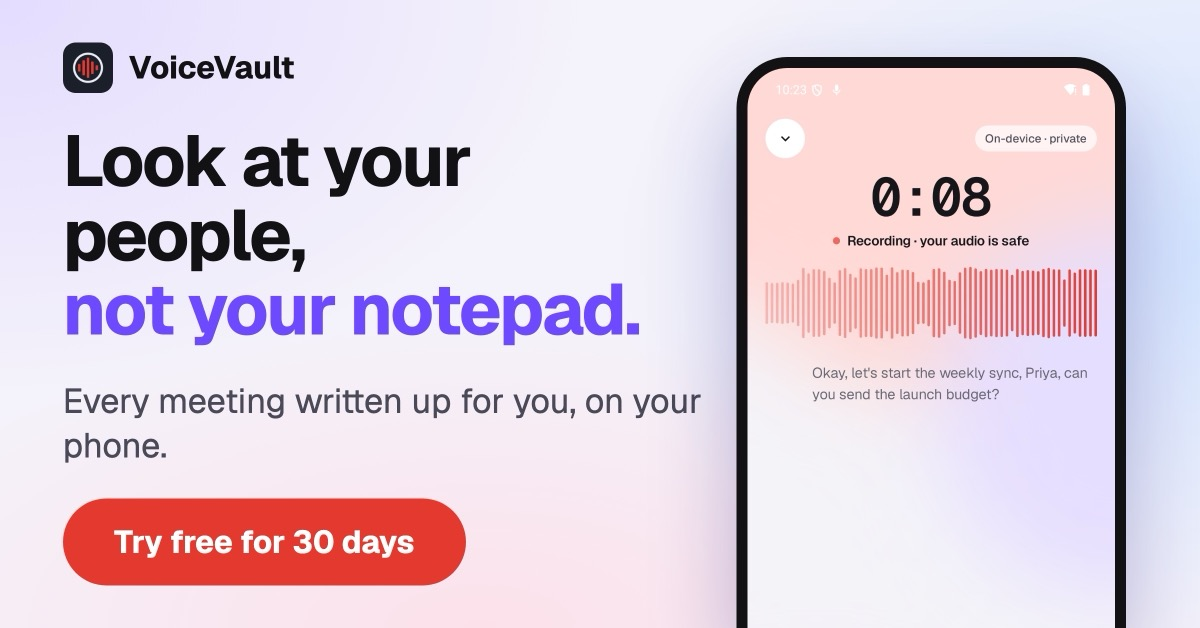
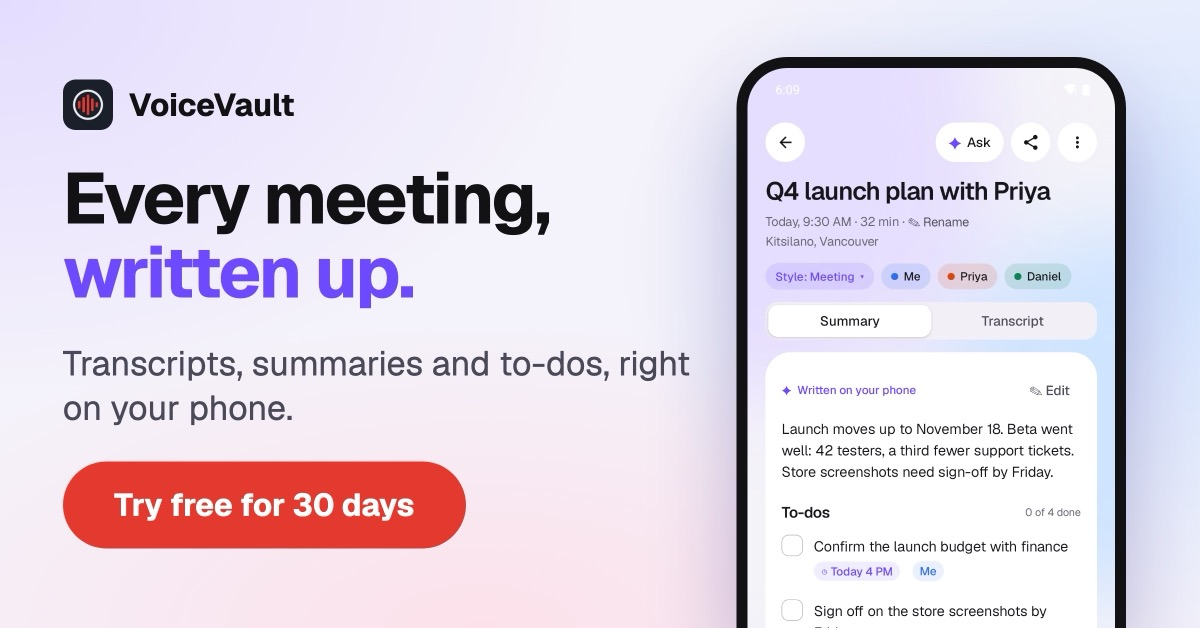
VoiceVault page: same message as the Play listing and ads

diff --git a/voicevault/index.html b/voicevault/index.html
@@ -3,14 +3,14 @@
 <head>
 <meta charset="UTF-8">
 <meta name="viewport" content="width=device-width, initial-scale=1.0">
-<title>VoiceVault: AI meeting notes that stay on your phone</title>
-<meta name="description" content="Record any meeting and walk out with the summary, the to-dos and who said what. Written on your Android phone, never uploaded. 30 days free, then pay once.">
+<title>VoiceVault: every meeting, written up, right on your phone</title>
+<meta name="description" content="Meeting notes, summaries and to-dos, made on your Android phone. No account, no servers, no subscription. 30 days free, then pay once.">
 <link rel="canonical" href="https://azai.ca/voicevault/">
 <link rel="icon" type="image/png" href="icon.png">
 <meta property="og:type" content="website">
 <meta property="og:url" content="https://azai.ca/voicevault/">
-<meta property="og:title" content="VoiceVault: look at your people, not your notepad">
-<meta property="og:description" content="AI meeting notes written on your phone. Nothing is uploaded. 30 days free, then pay once.">
+<meta property="og:title" content="VoiceVault: every meeting, written up">
+<meta property="og:description" content="Meeting notes, summaries and to-dos, made on your phone. No subscription.">
 <meta property="og:image" content="https://azai.ca/voicevault/og.jpg">
 <meta name="twitter:card" content="summary_large_image">
 <style>
@@ -124,9 +124,9 @@
 
 <header class="hero">
   <div>
-    <div class="eyebrow">For people who run the meeting</div>
-    <h1>Look at your people, <em>not your notepad.</em></h1>
-    <p class="lede">Press Record and run the meeting. VoiceVault writes the summary, the to-dos and who said what, right on your phone. Nothing is uploaded.</p>
+    <div class="eyebrow">VoiceVault</div>
+    <h1>Every meeting, <em>written up.</em></h1>
+    <p class="lede">Tap Record. VoiceVault writes the transcript, names who said what, and turns it into a short summary and a to-do list. All of it happens on your phone: no account, no VoiceVault servers, and it even works in airplane mode.</p>
     <a class="play" href="https://play.google.com/store/apps/details?id=com.azai.voicevault&amp;referrer=utm_source%3Dazai.ca%26utm_medium%3Dlanding"><img src="icon.png" alt=""><span><small>Get it on</small>Google Play</span></a>
     <p class="note">Android · 30 days free · then pay once</p>
   </div>
@@ -134,7 +134,7 @@
 </header>
 
 <div class="strip">
-  <div><b>Nothing leaves your phone</b>Recorded, transcribed and summarized on the device. Works in airplane mode.</div>
+  <div><b>Right on your phone</b>Transcripts, summaries and to-dos, made on the device. Works in airplane mode.</div>
   <div><b>No account, no servers</b>We never receive your recordings, so we can't read, share or sell them.</div>
   <div><b>Pay once</b>No subscription, no minute limits, no AI credits.</div>
 </div>
@@ -142,8 +142,8 @@
 <section class="row">
   <div class="text">
     <div class="eyebrow">The moment you stop</div>
-    <h2>Walk out knowing <em>who owes what.</em></h2>
-    <p class="lede">The decisions in a few lines, and a to-do list with an owner on each item. Add a due date and VoiceVault reminds you on the day.</p>
+    <h2>Summary and to-dos, <em>done.</em></h2>
+    <p class="lede">Get the decisions in a few lines, plus a to-do list that says who owns what. Add a due date and VoiceVault reminds you once, on the day.</p>
   </div>
   <div class="phone"><img src="img/04-summary-todos.jpg" alt="A meeting summary with to-dos and their owners" loading="lazy"></div>
 </section>
@@ -151,28 +151,28 @@
 <section class="row flip">
   <div class="text">
     <div class="eyebrow">Who said what</div>
-    <h2>End “I thought <em>you had it.”</em></h2>
-    <p class="lede">Every line of the transcript shows who said it and when. Tap any line to hear exactly how it was said.</p>
+    <h2>Every voice, <em>named.</em></h2>
+    <p class="lede">Each line of the transcript has a name and a time. Tap any line to hear that moment again. Mark important moments while you record and they're highlighted in your notes.</p>
   </div>
   <div class="phone"><img src="img/05-who-said-what.jpg" alt="A transcript with each line labelled by speaker and time" loading="lazy"></div>
 </section>
 
 <section class="row">
   <div class="text">
-    <div class="eyebrow">Before your next 1:1</div>
-    <h2>“What did I promise?” <em>Just ask.</em></h2>
-    <p class="lede">Ask in plain words across every meeting you've recorded. The answer comes from your own meetings, with the source.</p>
+    <div class="eyebrow">Ask</div>
+    <h2>Ask anything <em>you've recorded.</em></h2>
+    <p class="lede">“What did I promise this week?” “What did we decide on pricing?” Ask in plain words and get answers from your own recordings, with the source.</p>
   </div>
   <div class="phone"><img src="img/06-ask.jpg" alt="Asking what was promised this week, answered from recordings" loading="lazy"></div>
 </section>
 
 <section class="dark" id="private">
-  <div class="eyebrow">Confidential stays confidential</div>
-  <h2>Some meetings <em>can't go to a cloud.</em></h2>
-  <p class="lede">Most AI note takers send your meetings to their servers to be transcribed. VoiceVault runs its own AI on your phone, so the conversation never leaves it.</p>
+  <div class="eyebrow">Private by design</div>
+  <h2>Your meetings <em>stay on your phone.</em></h2>
+  <p class="lede">VoiceVault sets up its own AI on your phone. No subscription, no per-use charges, nothing sent to a cloud.</p>
   <div class="checks">
-    <div><span>✓</span><div>Performance reviews and HR conversations<small>Recorded and written up on the phone.</small></div></div>
-    <div><span>✓</span><div>Board prep and client negotiations<small>No account to sign in to, no copy on our side.</small></div></div>
+    <div><span>✓</span><div>No account and no VoiceVault servers<small>We never receive your recordings, so we can't read, share or sell them.</small></div></div>
+    <div><span>✓</span><div>Recorded, transcribed and summarized on the phone<small>It works in airplane mode.</small></div></div>
     <div><span>✓</span><div>Never used to train AI<small>No ads. No tracking.</small></div></div>
     <div><span>✓</span><div>Backups only if you want them<small>To your own Google Drive, and nowhere else.</small></div></div>
   </div>
@@ -180,8 +180,8 @@
 
 <section class="price" id="price">
   <div class="eyebrow">Pay once</div>
-  <h2>No meter <em>running.</em></h2>
-  <p class="lede">Try everything free for 30 days. Then one payment unlocks VoiceVault for life: US$49.99, or the equivalent shown in Google Play.</p>
+  <h2>Yours for life. <em>No subscription.</em></h2>
+  <p class="lede">Try everything free for 30 days. Then one payment unlocks VoiceVault for life, with no minute limits and no AI credits: US$49.99, or the equivalent shown in Google Play.</p>
   <div class="compare">
     <div><h3>Most AI note takers</h3><p>Monthly subscription</p><p>Minute limits</p><p>Your meetings in their cloud</p><p>Account required</p></div>
     <div class="us"><h3>VoiceVault</h3><p>One payment</p><p>Record as much as you like</p><p>Stays on your phone</p><p>No account</p></div>
@@ -205,7 +205,7 @@
 </section>
 
 <section class="end">
-  <h2>Be in the room. <em>VoiceVault takes the notes.</em></h2>
+  <h2>Record. Transcribe. <em>Keep it.</em></h2>
   <a class="play" href="https://play.google.com/store/apps/details?id=com.azai.voicevault&amp;referrer=utm_source%3Dazai.ca%26utm_medium%3Dlanding"><img src="icon.png" alt=""><span><small>Get it on</small>Google Play</span></a>
   <p class="note">30 days free · then one payment, yours for life</p>
 </section>
